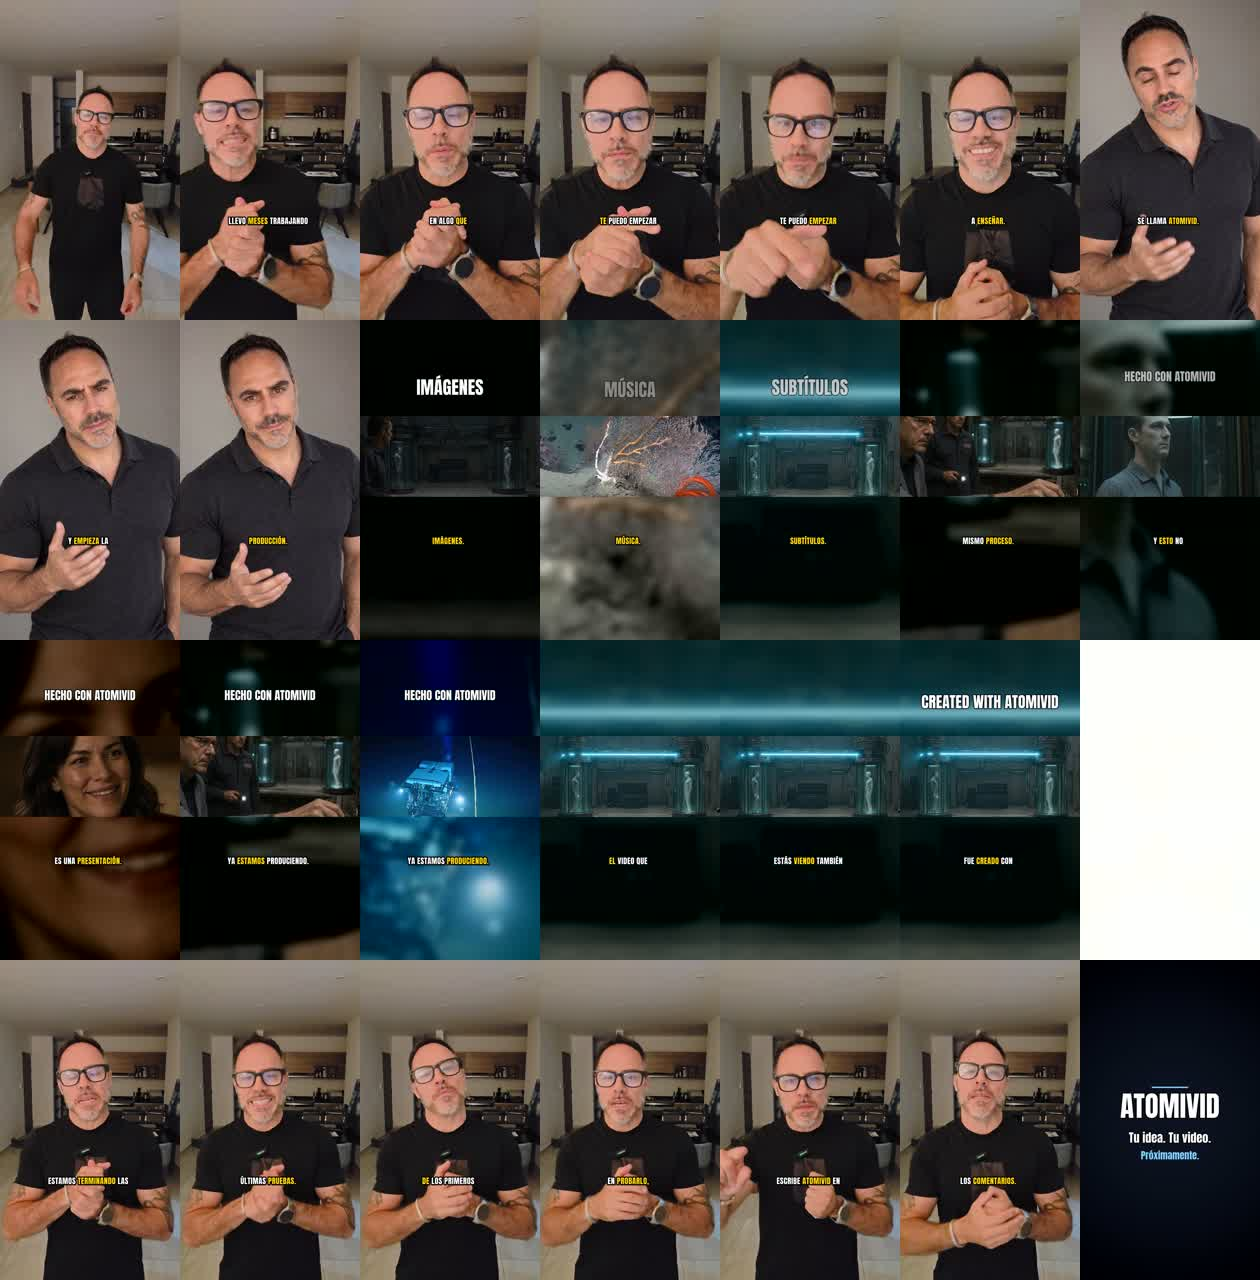
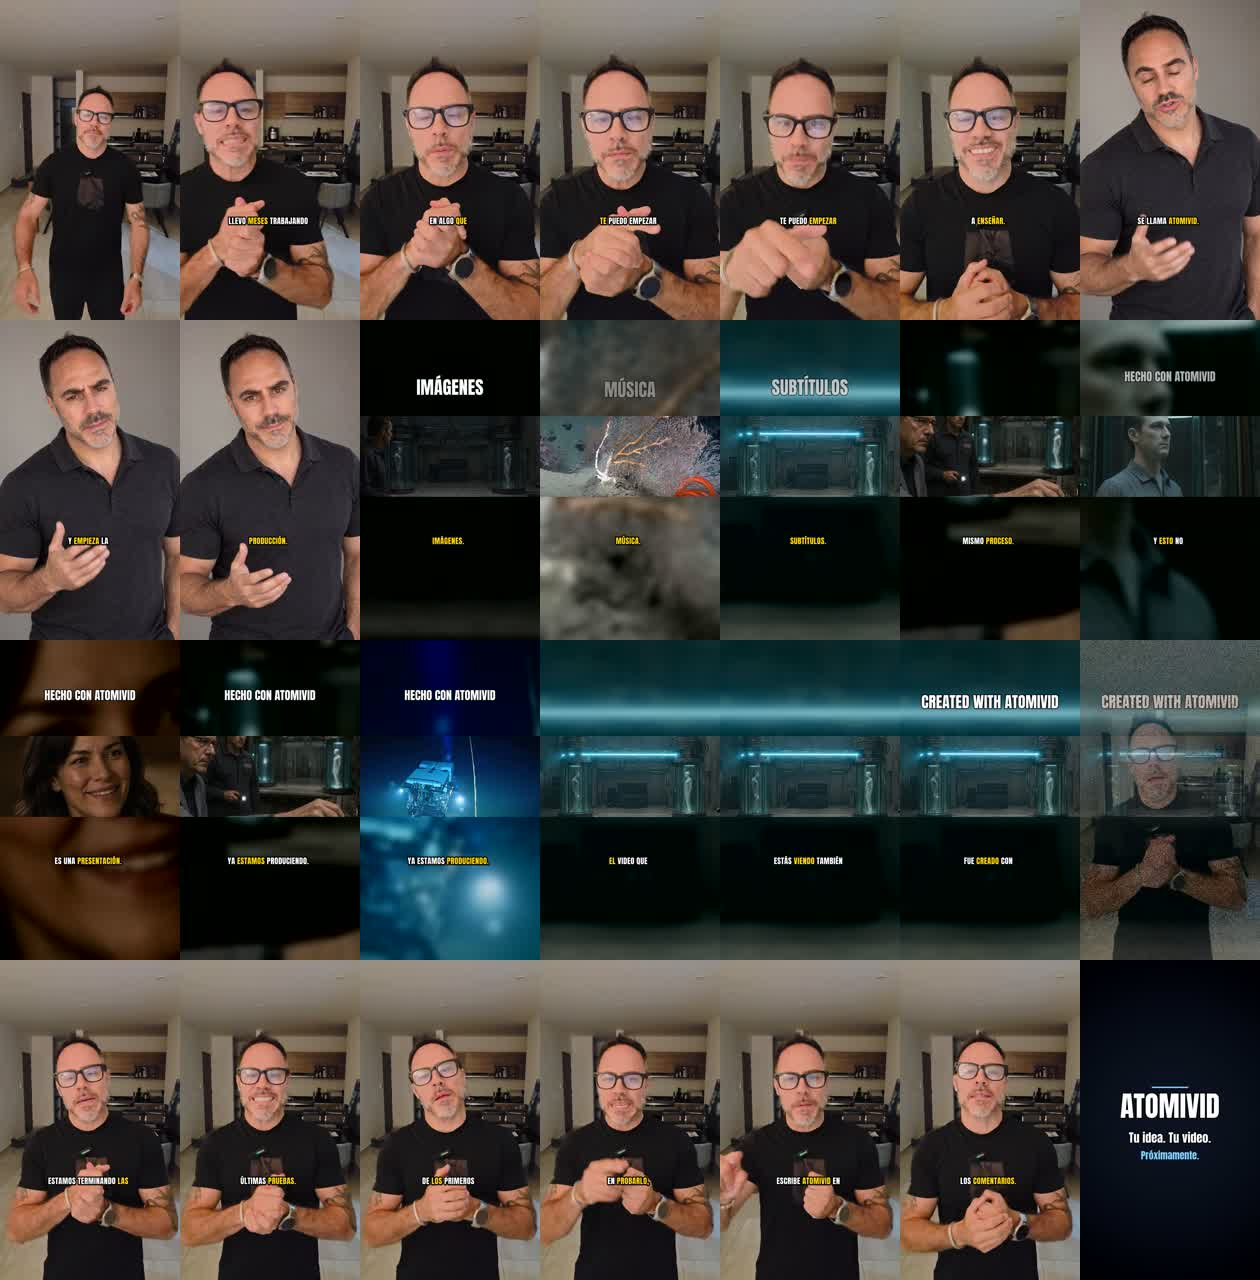
docs: precampaign V2 final NO-VFX QA and cost report (VFX-001 vetoed on identity)
Claude-Session: https://claude.ai/code/session_01JsjBWarpRKACA5uhYYiNHR

diff --git a/teaser-deliverables/v2/QA-REPORT-V2.md b/teaser-deliverables/v2/QA-REPORT-V2.md
@@ -1,44 +1,47 @@
-# ATOMIVID Precampaign V2 Cinematic — QA (run 37086740704)
+# ATOMIVID Precampaign V2 Cinematic — QA final (master run 37089176748)
 
-**Estado:** MASTER V2 (SIN VFX) LISTO PARA REVISIÓN · `VFX_001_HUMAN_REVIEW_REQUIRED`
-(la única llamada VFX-001 autorizada fue rechazada por Luma con HTTP 422 antes de crear el trabajo: USD 0.00).
+**Estado:** MASTER V2 **NO-VFX** LISTO PARA REVISIÓN HUMANA · VFX-001 → `VFX_001_HUMAN_REVIEW_REQUIRED` (vetado en QA de identidad). No publicado.
 
-## Tomas nuevas (identificadas por transcripción local, nunca por nombre)
-| Rol | Archivo | Coincidencia | Voz |
-|---|---|---|---|
-| APERTURA | `20261002_181854.mp4` (Storage: `precampaign-teaser-v1./20261002_181854-1.mp4`) | 100 % | 3.38–9.34 s |
-| CIERRE | `20261002_181957.mp4` (Storage: `precampaign-teaser-v1./20261002_181957-1.mp4`) | 94 % ("ATOMIVID" → "a Tommy Bitt", palabra fuera de vocabulario) | 3.10–10.66 s |
-Ambas: 1080×1920, 30 fps, H.264 **HLG (arib-std-b67, BT.2020)** → convertidas a SDR BT.709 con tone mapping `hable` (elegido sobre 4 variantes).
-
-## Audio real (micrófono nuevo) — APTO
-| | Apertura | Cierre |
+## VFX-001 (Luma Agents API · ray-3.2 · video_edit · 720p · SDR · ventana 4.700–9.700 s · flex_1 · face/pose precise/trajectory/depth 0.7)
+| Intento | Resultado | Gasto |
 |---|---|---|
-| Loudness original | −11.5 LUFS, pico 0.0 dBFS | −9.8 LUFS, pico +0.8 dBTP |
-| Ruido en pausas | −54 dB | −62 dB |
-| Voz/ruido | 36.7 dB | 47.3 dB |
-| Clipping | 3 muestras (≤ 2 seguidas) | 18 muestras (≤ 7 seguidas ≈ 0.15 ms) — inaudible |
-| Reverb (caída −30 dB tras la última palabra) | 0.22 s | 0.36 s → seco, sin sonido hueco |
-| Balance | presencia 2–6 kHz ≈ 12 dB bajo el cuerpo → oscuro | ídem |
-Cadena aplicada: −6 dB, HPF 75 Hz, denoise ligero, −2 dB @220 Hz, +3 dB @3.2 kHz, +1.5 dB aire, de-esser, compresión 2.5:1, limitador; voz real y TTS igualadas a −16 LUFS antes de la mezcla. Sin de-reverb (innecesario).
+| #1 | HTTP 422 `content_moderated` (prompt; detalle capturado en #2) | USD 0 |
+| #2 | HTTP 422 `content_moderated` — "Prompt rejected by content policy" (sin `aspect_ratio`) | USD 0 |
+| #3 | Prompt positivo autorizado, sin lista Avoid → **aceptado y COMPLETED** (ledger `vfx:f826cfcc0969c9d9`, COMMITTED) | **USD 1.08** |
 
-## Master V2 (sin VFX)
+Salida #3: 720×1280, 30 fps, 5.0 s, 9:16; flicker bajo (diferencia media entre cuadros 2.85, máx. 7.28).
+
+### QA de identidad (fuente vs salida, 5 cuadros + hoja de contactos) — **VETADO**
+| Aspecto | Resultado |
+|---|---|
+| Identidad / rostro | ❌ Otra persona: forma de cara, pelo, barba (oscura y poblada vs canosa), edad aparente y tez distintos, de forma estable en los 5 s, pese al face conditioning activo |
+| Cabello | ❌ distinto |
+| Camiseta negra | ✅ |
+| Tatuajes | ❌ desaparecen los de los antebrazos |
+| Manos visibles | ✅ anatomía correcta, gestos conservados |
+| Accesorios | ❌ smartwatch plateado → reloj negro; pulsera y micrófono desaparecen |
+| Trayectoria / pose | ✅ conservadas |
+| Continuidad temporal / flicker | ✅ |
+| Iluminación | ✅ integrada |
+| Transformación del entorno | ✅ calle nocturna de Nueva York con brownstones, convincente |
+No se regeneró. Fuente y salida se conservan para comparación.
+
+## Master V2 NO-VFX
 | Check | Resultado |
 |---|---|
 | Resolución / fps | 1080×1920 / 30 ✅ |
-| Duración | 34.63 s ✅ |
-| Loudness | −14.3 LUFS, TP −1.5 dBFS, LRA 2.3 LU ✅ |
-| Primer frame visual / negros | ✅ / ninguno ✅ |
-| Subtítulos sin solapes / sin cruzar secciones | ✅ / ✅ |
+| Duración | 34.53 s ✅ |
+| Loudness | −14.3 LUFS, TP −1.5 dBFS, LRA 2.4 LU ✅ |
+| Primer frame visual | ✅ |
+| Negros / blancos accidentales | ninguno / ninguno ✅ (flash blanco sustituido por disolvencia de 0.4 s) |
+| Subtítulos sin solapes / dentro de su sección / zona segura | ✅ / ✅ / ✅ |
 | Sincronía A/V por segmento | ≤ 38 ms ✅ |
+| Música con ducking y cortes al beat | 119.96 BPM ✅ |
 | End card | 1.2 s ✅ |
-| Música con ducking, cortes al beat | 119.96 BPM, error medio 62 ms ✅ |
-| VFX integrado | ❌ (ver arriba) |
 
-Estructura: Hans real caminando → frase de apertura (0–7.3 s) → zoom-in + whoosh → avatar HeyGen (6.95–10.75) → demo con un plano por palabra
-(10.71–16.68) → resultados DULCE/Océano (16.64–21.0) → reveal con riser (20.71–25.8) → flash + Hans real de cierre + CTA (25.51–33.78) → end card animada (33.43–34.63).
+Audio real (micrófono nuevo): apto — voz/ruido 37/47 dB, seco (−30 dB en 0.22–0.36 s), clipping inaudible; cadena: −6 dB, HPF, denoise ligero, −2 dB@220 Hz, +3 dB@3.2 kHz, aire, de-esser, compresión 2.5:1, limitador; voz real y TTS igualadas a −16 LUFS.
 
 ## Defectos residuales
-1. Sin el momento VFX (pendiente de autorizar el envío corregido).
-2. La transición reveal → cierre (`fadewhite`) pasa por un cuadro blanco completo (flash deliberado de 0.3 s); puede suavizarse.
-3. El micrófono de solapa es visible en el pecho de Hans en el cierre.
-4. Lip-sync del avatar y pronunciación de "ATOMIVID": escucha humana.
+1. Sin momento hero VFX (VFX-001 vetado por identidad).
+2. Micrófono de solapa visible en el cierre.
+3. Lip-sync del avatar y pronunciación de "ATOMIVID": escucha humana.
